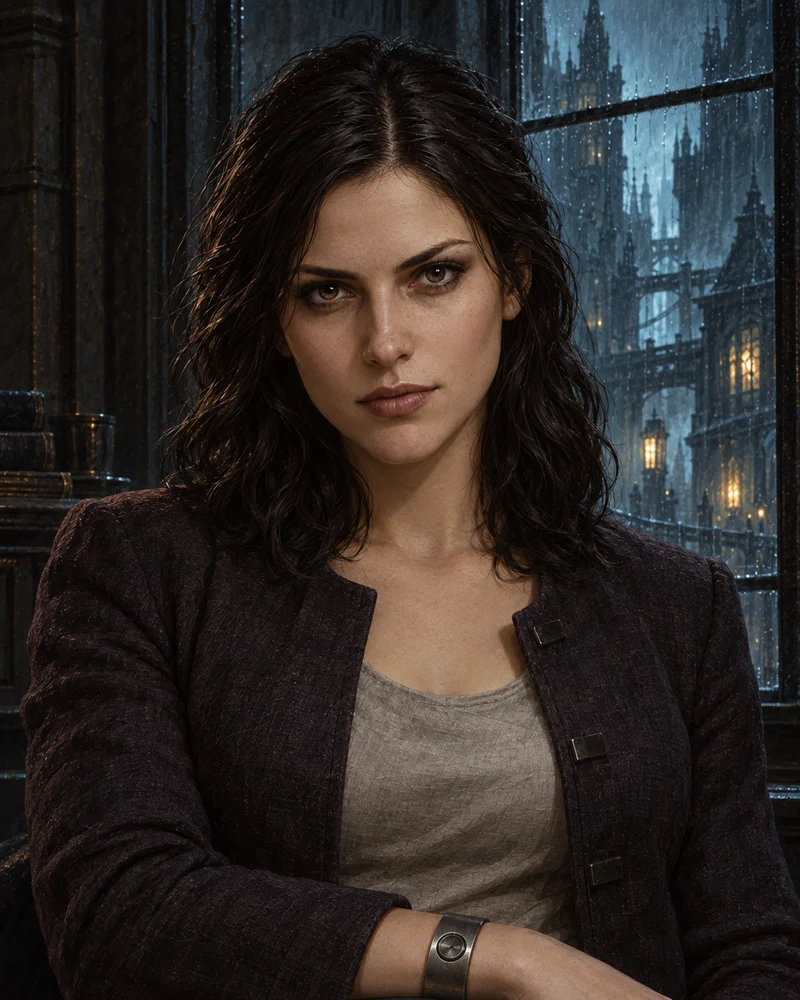
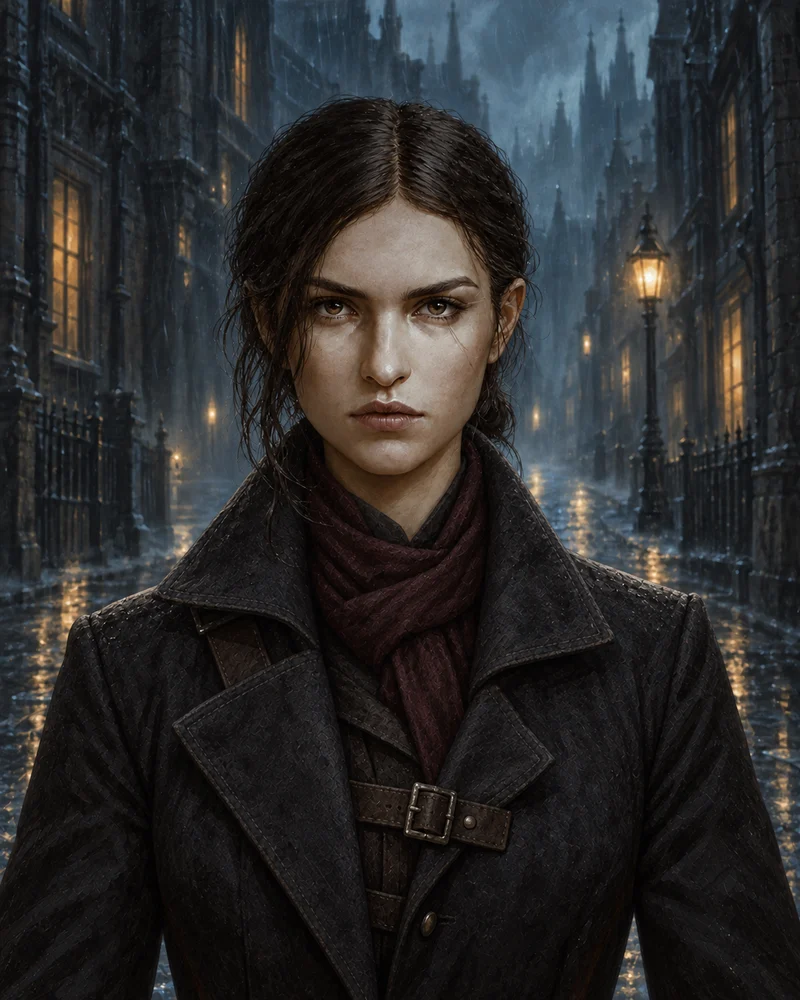
Portraits: restore original Alizebeth and Beta Bequin likenesses; Beta gets a new costume, refined face and rainy Queen Mab backdrop

diff --git a/docs/portraits/all-chatgpt.md b/docs/portraits/all-chatgpt.md
@@ -1,6 +1,6 @@
 # Complete ChatGPT Images portrait collection
 
-All **102 characters** in the current codex have a selected painted portrait, generated or edited with the built-in ChatGPT Images tool. An early Beta Bequin trial set the common painted style. That trial used published cover art as a reference, so it is not included here. Alizebeth and Beta Bequin were regenerated (v3) from textual descriptions only, using Kara Swole's portrait as the style reference. See [Beta's provenance](beta-bequin-chatgpt.md).
+All **102 characters** in the current codex have a selected painted portrait, generated or edited with the built-in ChatGPT Images tool. Beta Bequin supplies the common painted style.
 
 ## Runtime integration
 
@@ -34,8 +34,8 @@ These scenes and unrecorded physical details are **artistic interpretations, not
 | --- | --- | --- | --- | --- |
 | Ahenobarb | imperial | [WebP](../../public/portraits/ahenobarb.webp) | [PNG](sources/ahenobarb.chatgpt.png) | [Prompt](ahenobarb-chatgpt.prompt.txt) |
 | Alace Quatorze | heretic | [WebP](../../public/portraits/alace-quatorze.webp) | [PNG](sources/alace-quatorze.chatgpt.png) | [Prompt](alace-quatorze-chatgpt.prompt.txt) |
-| Alizebeth "Beta" Bequin | retinue | [WebP](../../public/portraits/beta-bequin.webp) | [PNG](sources/beta-bequin.chatgpt-v3.png) | [Prompt](beta-bequin-chatgpt-v3.prompt.txt) |
-| Alizebeth Bequin | retinue | [WebP](../../public/portraits/alizebeth-bequin.webp) | [PNG](sources/alizebeth-bequin.chatgpt-v3.png) | [Prompt](alizebeth-bequin-chatgpt-v3.prompt.txt) |
+| Alizebeth "Beta" Bequin | retinue | [WebP](../../public/portraits/beta-bequin.webp) | [PNG](sources/beta-bequin.chatgpt-background-v2.png) | [Prompt](beta-bequin-chatgpt-background-v2.prompt.txt) |
+| Alizebeth Bequin | retinue | [WebP](../../public/portraits/alizebeth-bequin.webp) | [PNG](sources/alizebeth-bequin.chatgpt-background-v2.png) | [Prompt](alizebeth-bequin-chatgpt-background-v2.prompt.txt) |
 | Angharad Esw Sweydyr | retinue | [WebP](../../public/portraits/angharad-esw-sweydyr.webp) | [PNG](sources/angharad-esw-sweydyr.chatgpt.png) | [Prompt](angharad-esw-sweydyr-chatgpt.prompt.txt) |
 | Arianhrod Esw Sweydyr | retinue | [WebP](../../public/portraits/arianhrod-esw-sweydyr.webp) | [PNG](sources/arianhrod-esw-sweydyr.chatgpt.png) | [Prompt](arianhrod-esw-sweydyr-chatgpt.prompt.txt) |
 | Arnault Tantalid | inquisition | [WebP](../../public/portraits/arnault-tantalid.webp) | [PNG](sources/arnault-tantalid.chatgpt.png) | [Prompt](arnault-tantalid-chatgpt.prompt.txt) |

diff --git a/README.md b/README.md
@@ -43,8 +43,7 @@ against a fixed vocabulary and writes `src/data/appearance.json`.
 
 - `src/ui/likeness-img.ts` selects approved WebP portraits and thumbnails from `src/data/portraits.json`. The original
   SVG renderer remains only as a fallback for missing assets; every current character has a painted asset.
-- A shared painted style runs through the archive. No published cover or official artwork is used as input: Alizebeth
-  and Beta Bequin are original portraits built from the books' descriptions alone.
+- The Beta Bequin portrait establishes the painted style shared across the archive.
   Backgrounds vary with allegiance and role: gold Inquisition rooms, cyan retinue workspaces, steel-blue Imperial
   locations, red heretic settings, violet daemon spaces, jade xenos architecture, rust-orange rogue locations and
   warm civilian interiors.

diff --git a/docs/portraits/top-10-chatgpt.md b/docs/portraits/top-10-chatgpt.md
@@ -1,6 +1,6 @@
 # Top ten other characters — ChatGPT Images
 
-Ten new individual portraits generated with the built-in ChatGPT Images tool, all using the early Beta Bequin trial portrait as the master style reference. That trial is not published because it was referenced on cover art. Alizebeth Bequin's portrait below has since been replaced by an original v3 portrait, so her links here no longer resolve.
+Ten new individual portraits generated with the built-in ChatGPT Images tool, all using Beta Bequin's portrait as the master style reference.
 
 ## Selection
 
